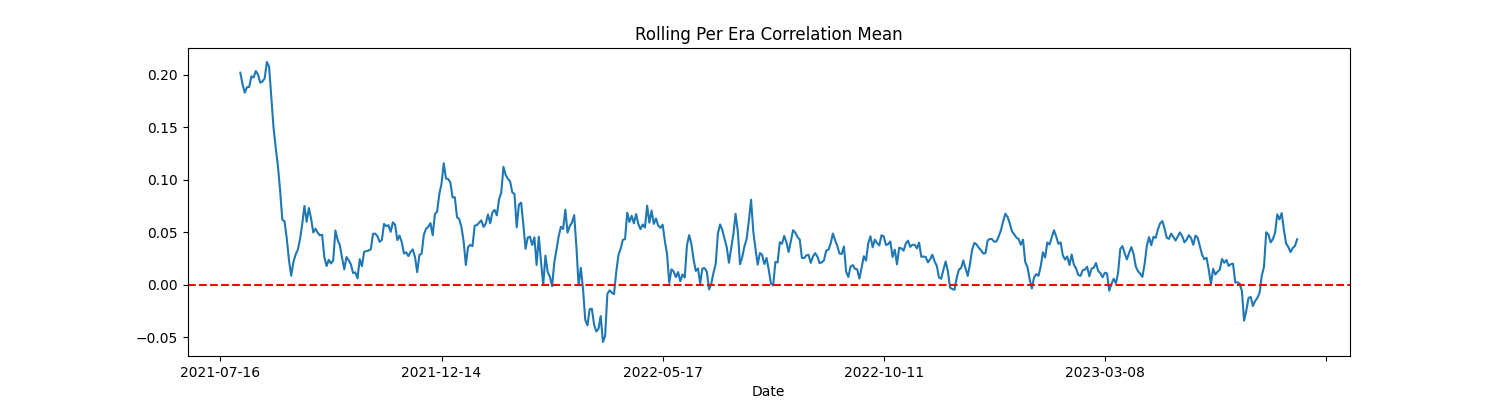
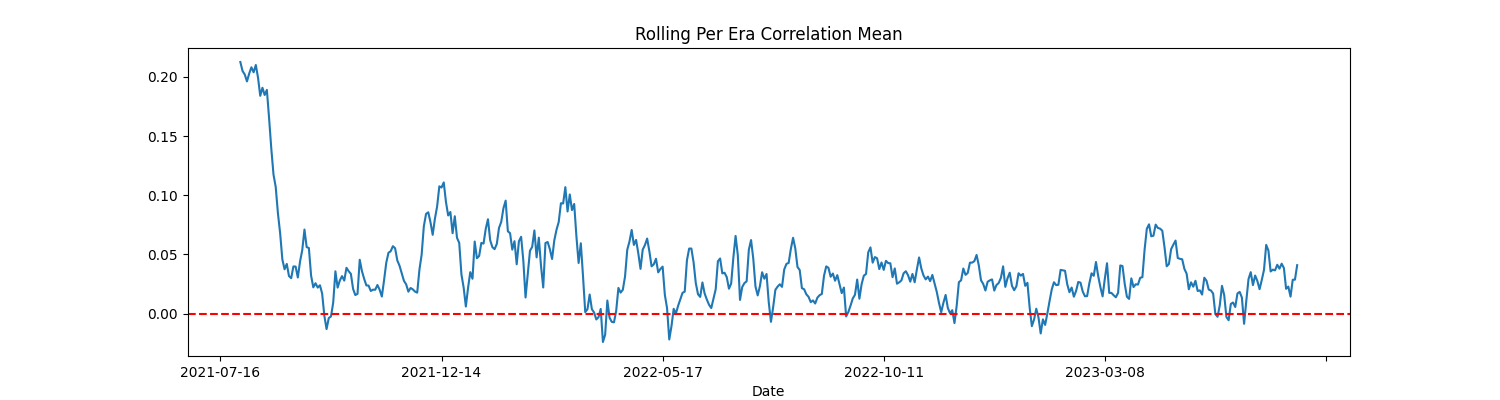
add features

diff --git a/forecast.py b/forecast.py
@@ -18,9 +18,10 @@ import shap
 
 # 各種設定
 # DATA_USE_RATEは最大1で181万データ
-SEED = 1234
+SEED = 42
 MODEL = "GBM"
 DATA_USE_RATE = 1
+DO_SHAP = True
 
 # 実行時間計測
 start = time.time()
@@ -47,7 +48,9 @@ df_test = pd.DataFrame(flat_test, columns=columns).fillna(0)
 
 
 # 特徴量と目的パラメータの指定
-features = ['AdjustmentOpen',
+features = ['Code',
+            'Volume',
+            'AdjustmentOpen',
             'AdjustmentHigh',
             'AdjustmentLow',
             'AdjustmentClose',
@@ -58,8 +61,21 @@ features = ['AdjustmentOpen',
             'rsi_9',
             'rsi_14',
             'rsi_22',
+            #'psycological',
             'movingline_deviation_5',
             'movingline_deviation_25',
+            'bollinger25_p1',
+            'bollinger25_p2',
+            'bollinger25_p3',
+            'bollinger25_m1',
+            'bollinger25_m2',
+            'bollinger25_m3',
+            'FastK',
+            'FastD',
+            'SlowK',
+            'SlowD',
+            'momentum_rate_10',
+            'momentum_rate_20',
             'close_diff_rate1',
             'close_diff_rate5',
             'close_diff_rate25',
@@ -77,7 +93,7 @@ y_test = df_test[target]
 
 # 金融時系列データは過分散のため，ビニングしてロバストにする
 # KBinsDiscretizerを5分位等分布の設定で初期化，学習データでfit
-discretizer = KBinsDiscretizer(n_bins=3, encode='ordinal', strategy='quantile')
+discretizer = KBinsDiscretizer(n_bins=5, encode='ordinal', strategy='quantile')
 discretizer.fit(X_train)
 
 # 学習・評価データの特徴量を変換する
@@ -156,7 +172,7 @@ run_analytics(test_scores, "test.png")
 
 
 # SHAPによる特徴量の重要度のグラフ化
-if MODEL in ["GBM",]:
+if DO_SHAP:
     explainer = shap.Explainer(model)
     shap_values = explainer(X_test)
     shap.summary_plot(shap_values, X_test, show=False)
